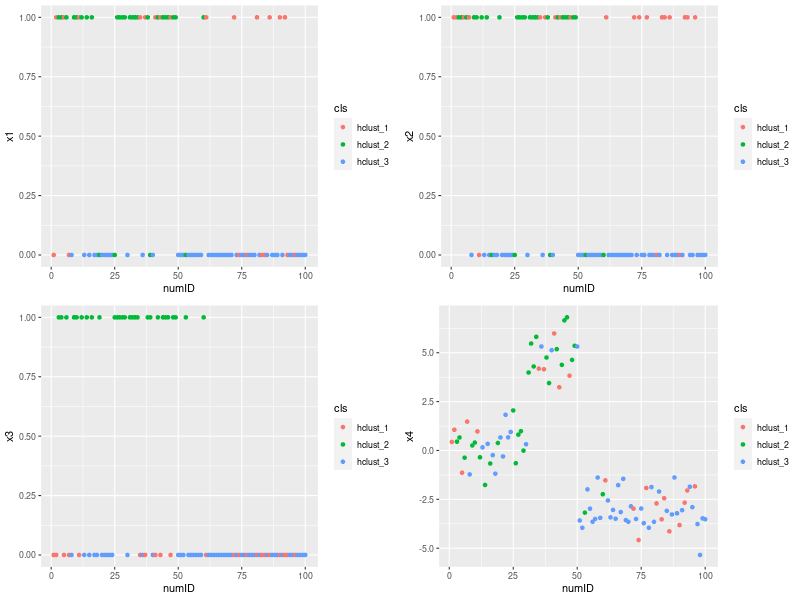
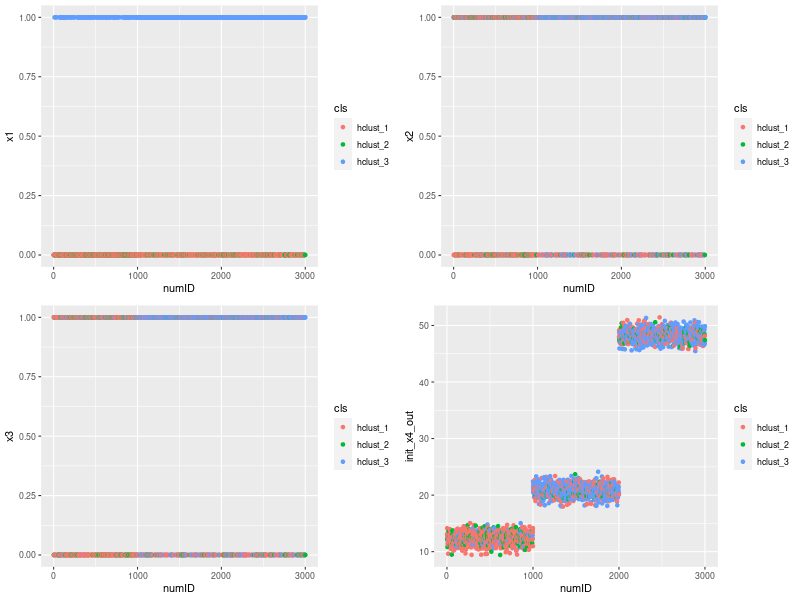
data generate edited

diff --git a/Clustering_Binary_Data/README.md b/Clustering_Binary_Data/README.md
@@ -8,39 +8,68 @@ dir.create("./02_output")
 dir.create("./03_source")
 
 # 実験データ作成
-set.seed(1234)
-x11 <- rbinom(30, 1, 0.5)
-x12 <- rbinom(20, 1, 0.75)
-x13 <- rbinom(50, 1, 0.2)
+library(dplyr)
+binom_cls_data_creator <- function(nrow, npat, num_cls){
+ # "
+ # data_create.Rの一般化。
+ # クラスタ別に異なるパラメータを持つ二値変数を生成する。
+ # "
+  init_prob <- runif(num_cls) # 初期の生成確率。
+  print(round(init_prob, digits = 2))
+  init_x1   <- numeric() # x1の生成
+  output    <- numeric() # 出力
+  
+  ## x1xとx4xを作る
+  for(cls in 1:num_cls){
+    init_x1_tmp <- rbinom(nrow, 1, init_prob[cls])
+    init_x4_tmp <- rnorm(nrow, mean = (runif(1) * 10)^2, sd = 1)
+    if(cls == 1){
+      init_x1_in <- init_x1_tmp
+      init_x4_in <- init_x4_tmp
+      init_x1_out <- init_x1_tmp
+      init_x4_out <- init_x4_tmp
+    }else{
+      init_x1_in <- cbind(init_x1_in, init_x1_tmp)
+      init_x4_in <- cbind(init_x4_in, init_x4_tmp)
+      init_x1_out <- c(init_x1_out, init_x1_tmp)
+      init_x4_out <- c(init_x4_out, init_x4_tmp)
+      
+    }
+  }
+  
+  ## x2x以降を作る
+  for(pat in 1:npat){
+    for(cls in 1:num_cls){
+      ## 基本は同じだが、生成過程を変える。
+      ## 各クラスタでのx1onの条件で分岐する。
+      ## xx同士は独立(x1との交絡)
+      init_xx_tmp <- ifelse(init_x1_in[,cls]==1,
+                            rbinom(nrow, 1, runif(nrow, min = 0.8)),
+                            rbinom(nrow, 1, runif(nrow, min = 0.2))
+                            )
+      if(cls == 1){
+        init_xx_in <- init_xx_tmp
+        init_xx_out <- init_xx_tmp
+      }else{
+        init_xx_in <- cbind(init_x1_in, init_xx_tmp)
+        init_xx_out <- c(init_xx_out, init_xx_tmp)
+      } 
+    }
 
-## x11, x12, x13とそれぞれ対応するように変数を作成
-x21 <- ifelse(x11==1, rbinom(30, 1, 0.7), rbinom(30, 1, 0.1))
-x22 <- ifelse(x12==1, rbinom(20, 1, 0.8), rbinom(20, 1, 0.05))
-x23 <- ifelse(x13==1, rbinom(50, 1, 0.75), rbinom(50, 1, 0.25))
-
-x31 <- ifelse(x11==1, rbinom(30, 1, 0.9), rbinom(30, 1, 0.1))
-x32 <- ifelse(x12==1, rbinom(20, 1, 0.6), rbinom(20, 1, 0.04))
-x33 <- ifelse(x13==1, rbinom(50, 1, 0.59), rbinom(50, 1, 0.01))
-
-## 比較のため、連続値も独立に挿入
-x41 <- rnorm(30, 0, 1)
-x42 <- rnorm(20, 5, 1)
-x43 <- rnorm(50, -3, 1)
-
-## データとして保持
-kmeans_data <- data.frame(
-  id = paste0("id_", c(1:100)),
-  numID = c(1:100),
-  x1 = c(x11, x12, x13),
-  x2 = c(x21, x22, x23),
-  x3 = c(x31, x32, x33),
-  x4 = c(x41, x42, x43)
-)
-
-rm(x11, x12, x13,
-   x21, x22, x23,
-   x31, x32, x33,
-   x41, x42, x43)
+    if(pat == 1){
+      output <- cbind(init_x1_out, init_xx_out)
+    }else{
+      output <- cbind(output, init_xx_out)
+    }
+  }
+  colnames(output) <- paste0("x", c(1:ncol(output)))
+  # colnames(init_x4_out) <- paste0("x_norm" ,c(1:ncol(init_x4)))
+  output <- cbind(output, init_x4_out)
+  output <- output %>%
+    as.data.frame
+  #   dplyr::arrange(x1)
+  return(output)
+}
 
 ## graph_function
 ### データの可視化を1関数で実現。
